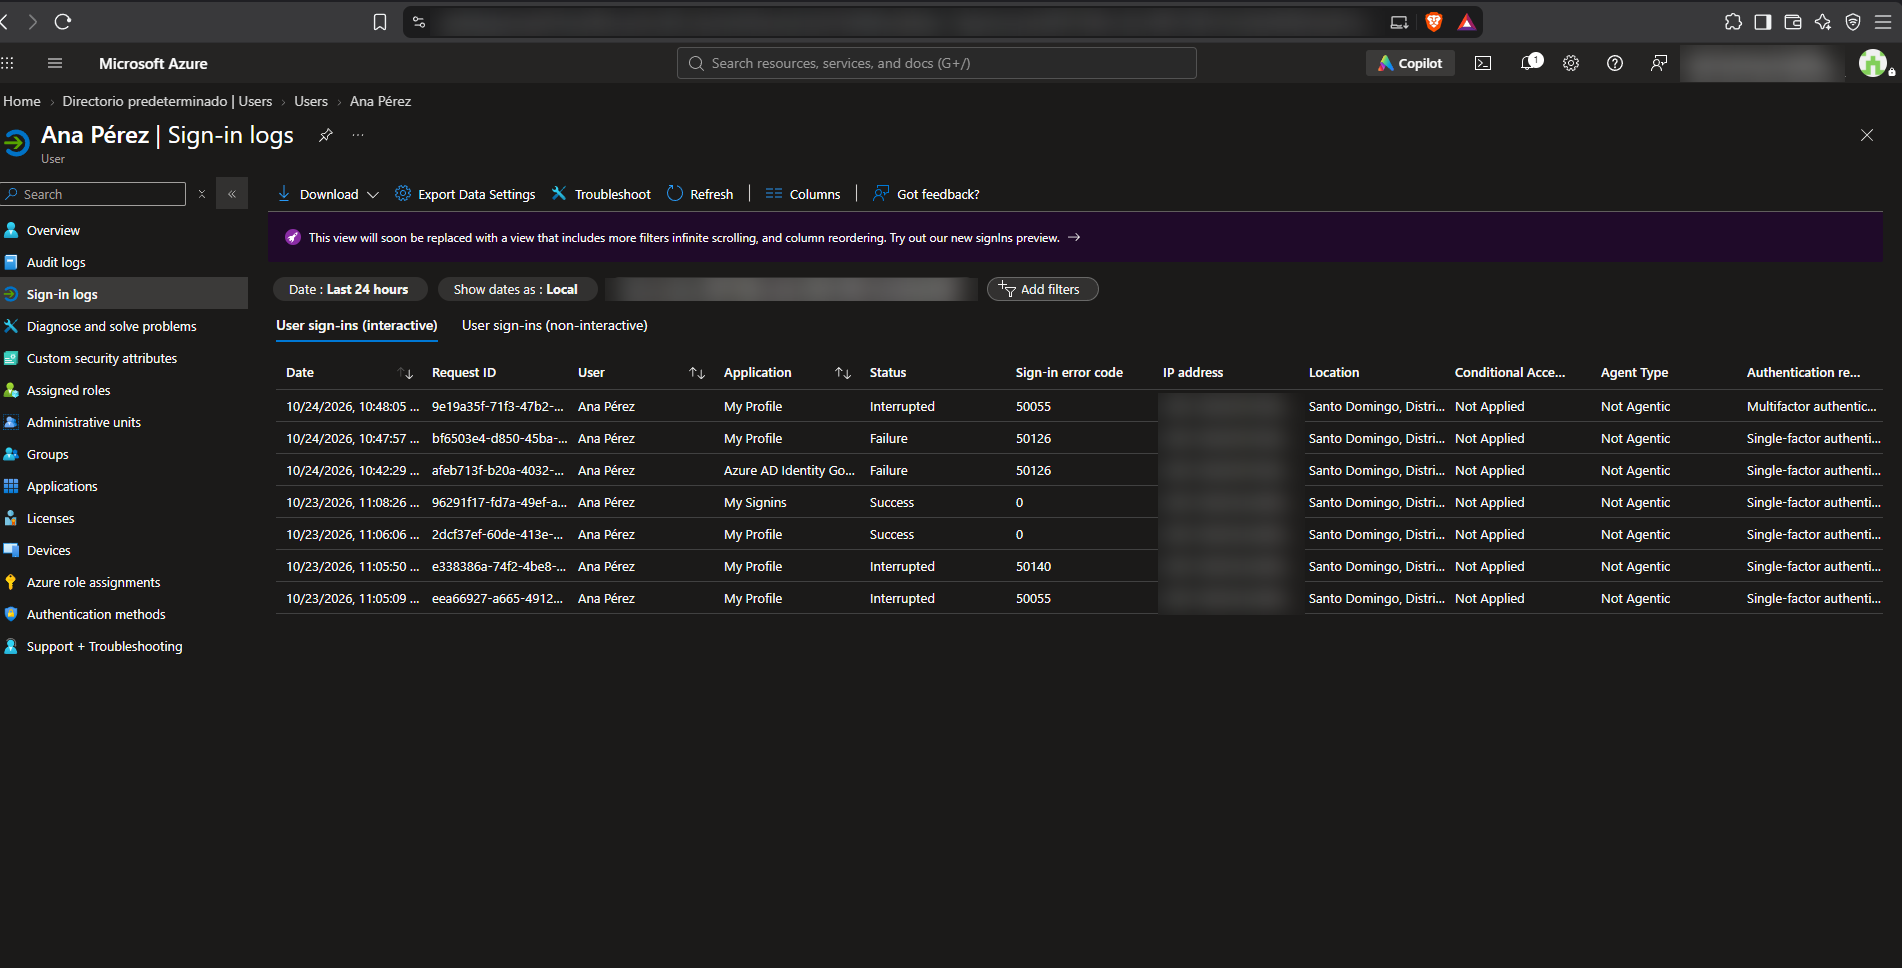
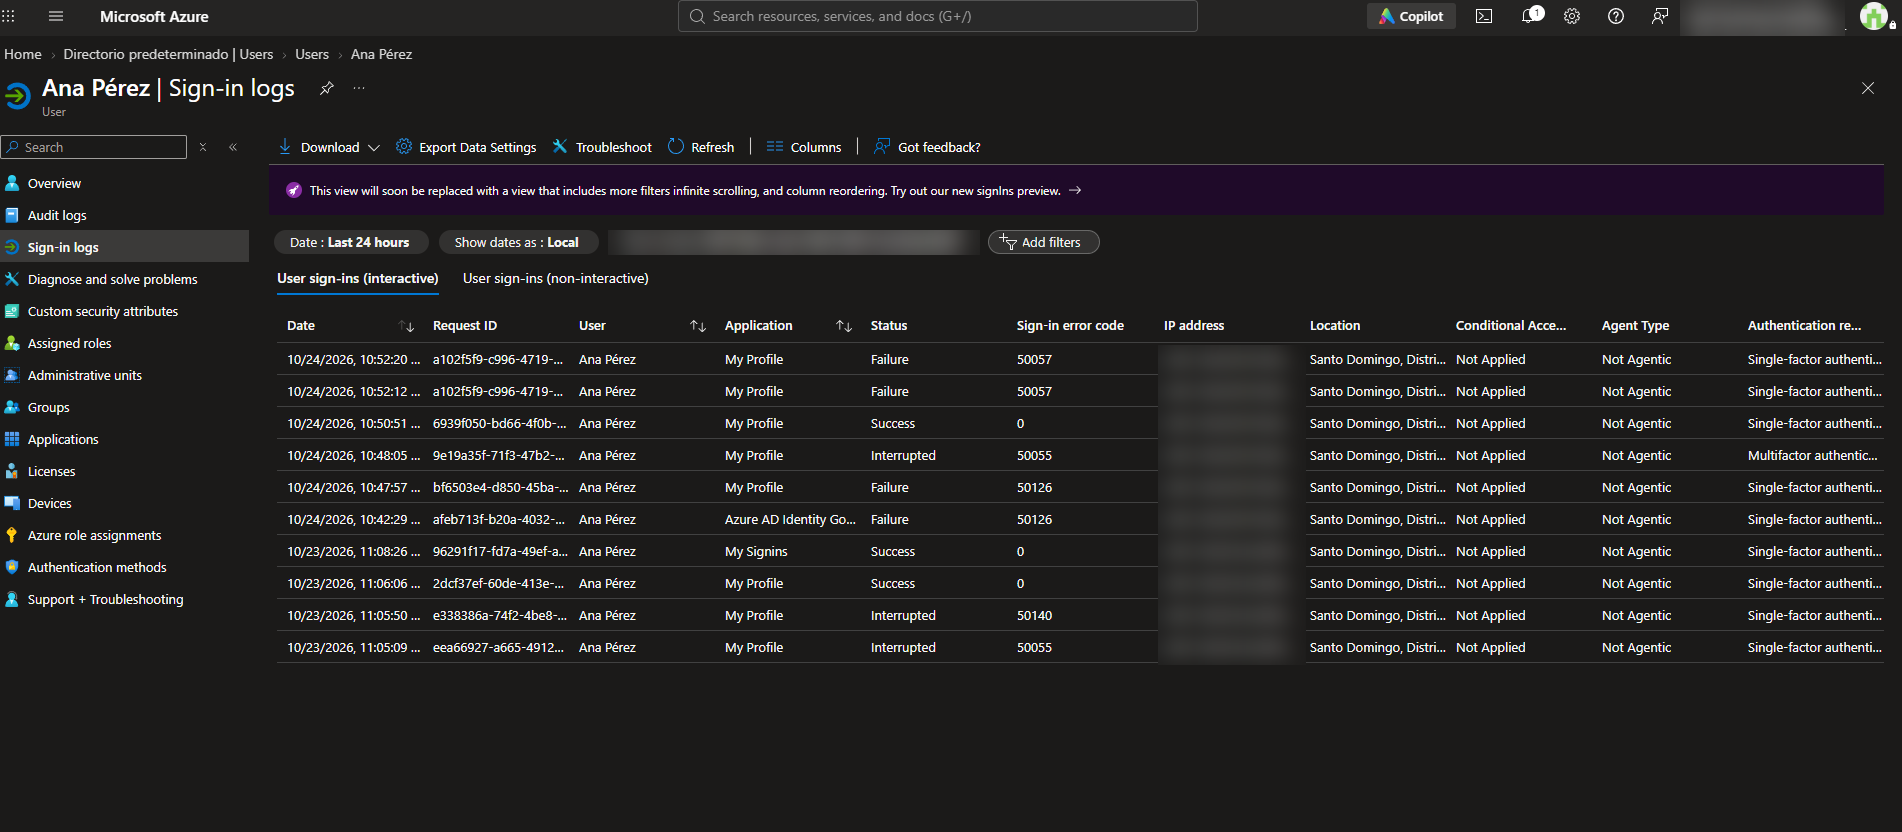
Update sign-in logs screenshot with 50057 (disabled account)
Claude-Session: https://claude.ai/code/session_01HFe73WZR4cq5FkLpBt5MBy

diff --git a/02-entra-id/README.md b/02-entra-id/README.md
@@ -74,7 +74,7 @@ The tenant has **security defaults** enabled, so at sign-in the user was require
 
 ## 7. Verifying the block
 
-After disabling the account again and revoking sessions, the sign-in attempt was rejected:
+After disabling the account again and revoking sessions, the sign-in attempt was rejected and logged with error code `50057`:
 
 ![Account locked](img/16-account-locked.png)
 
